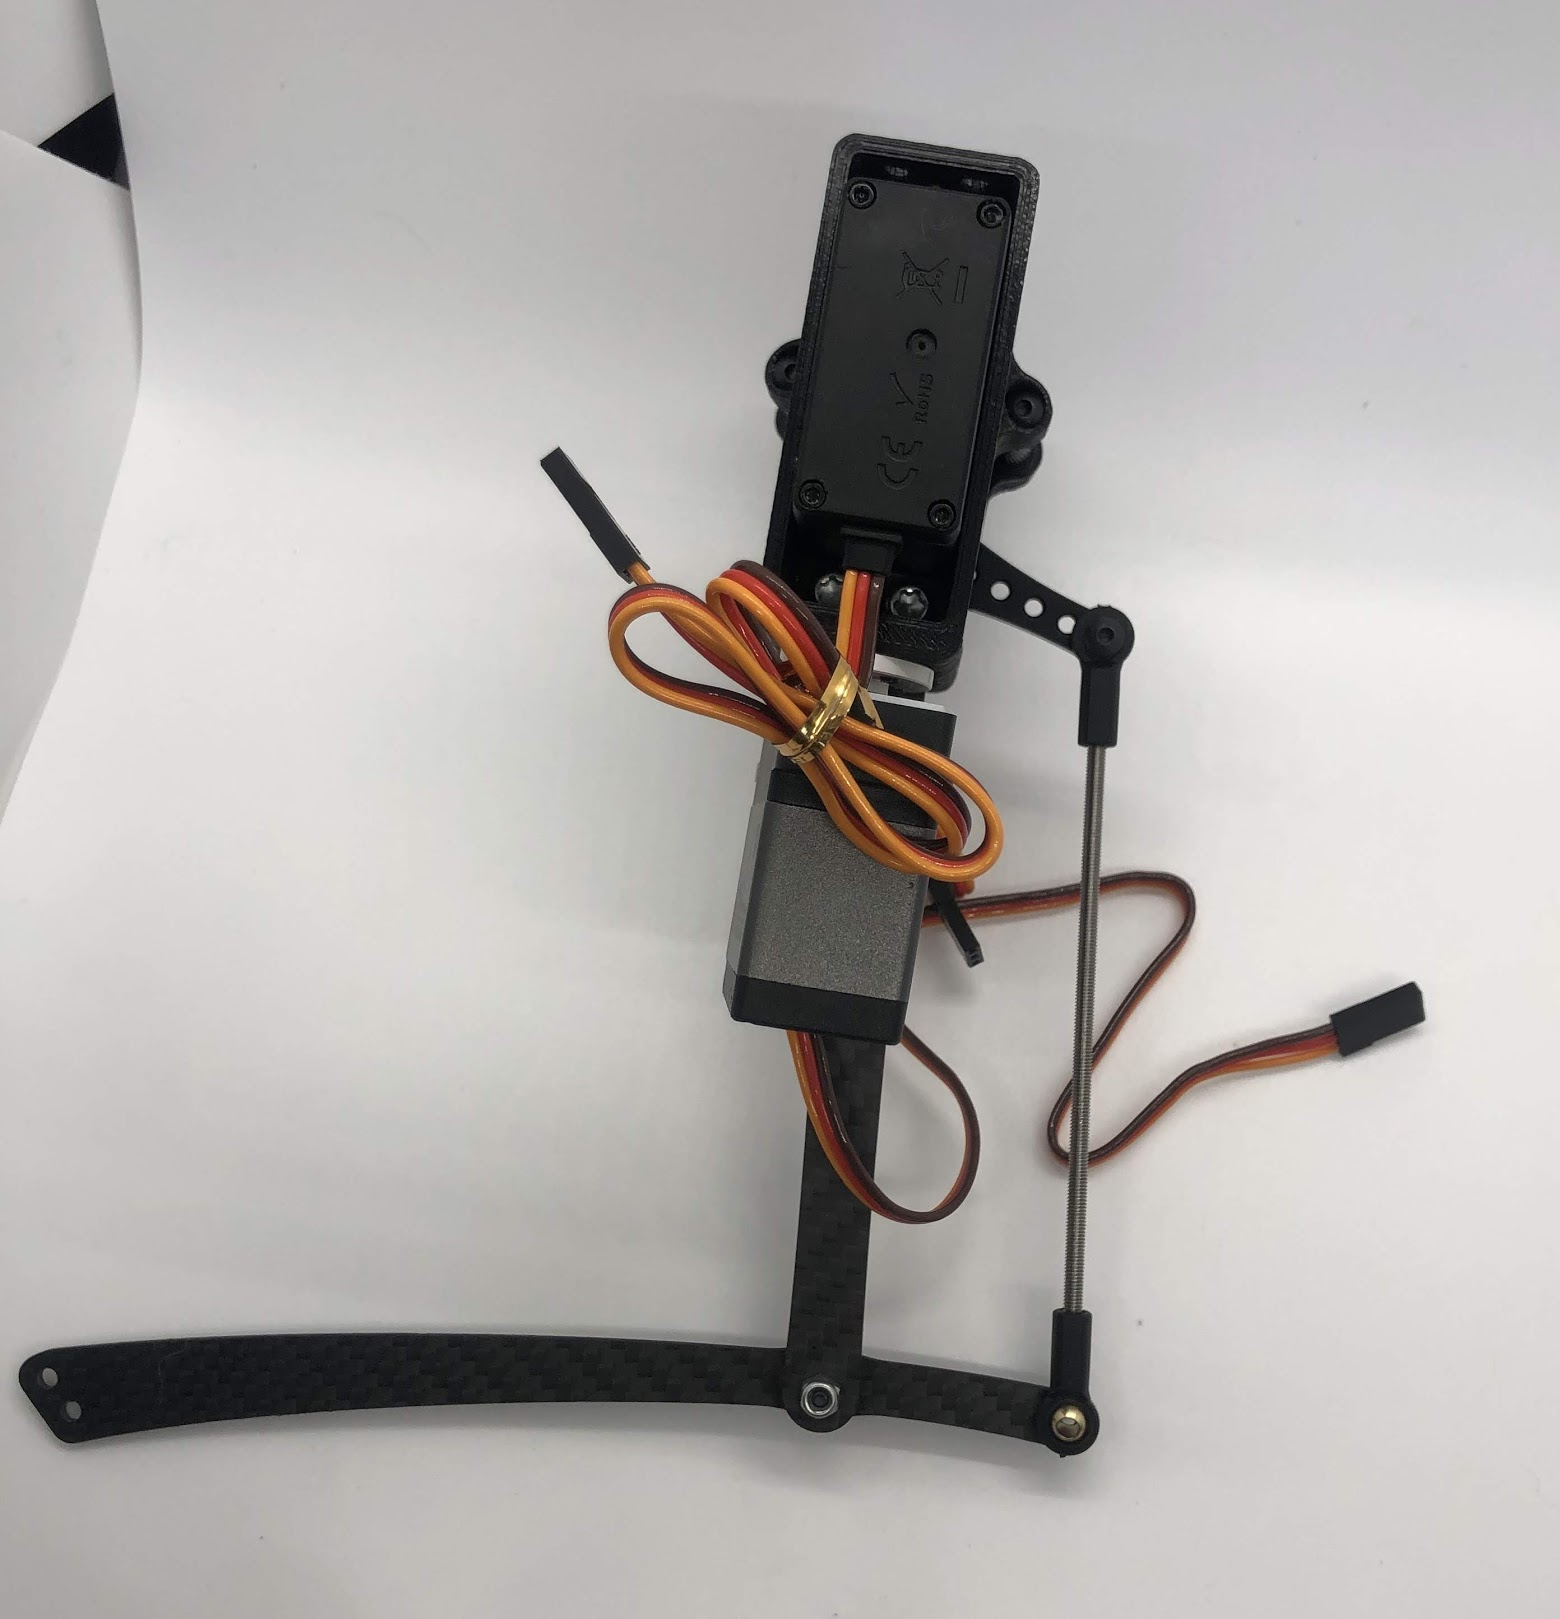
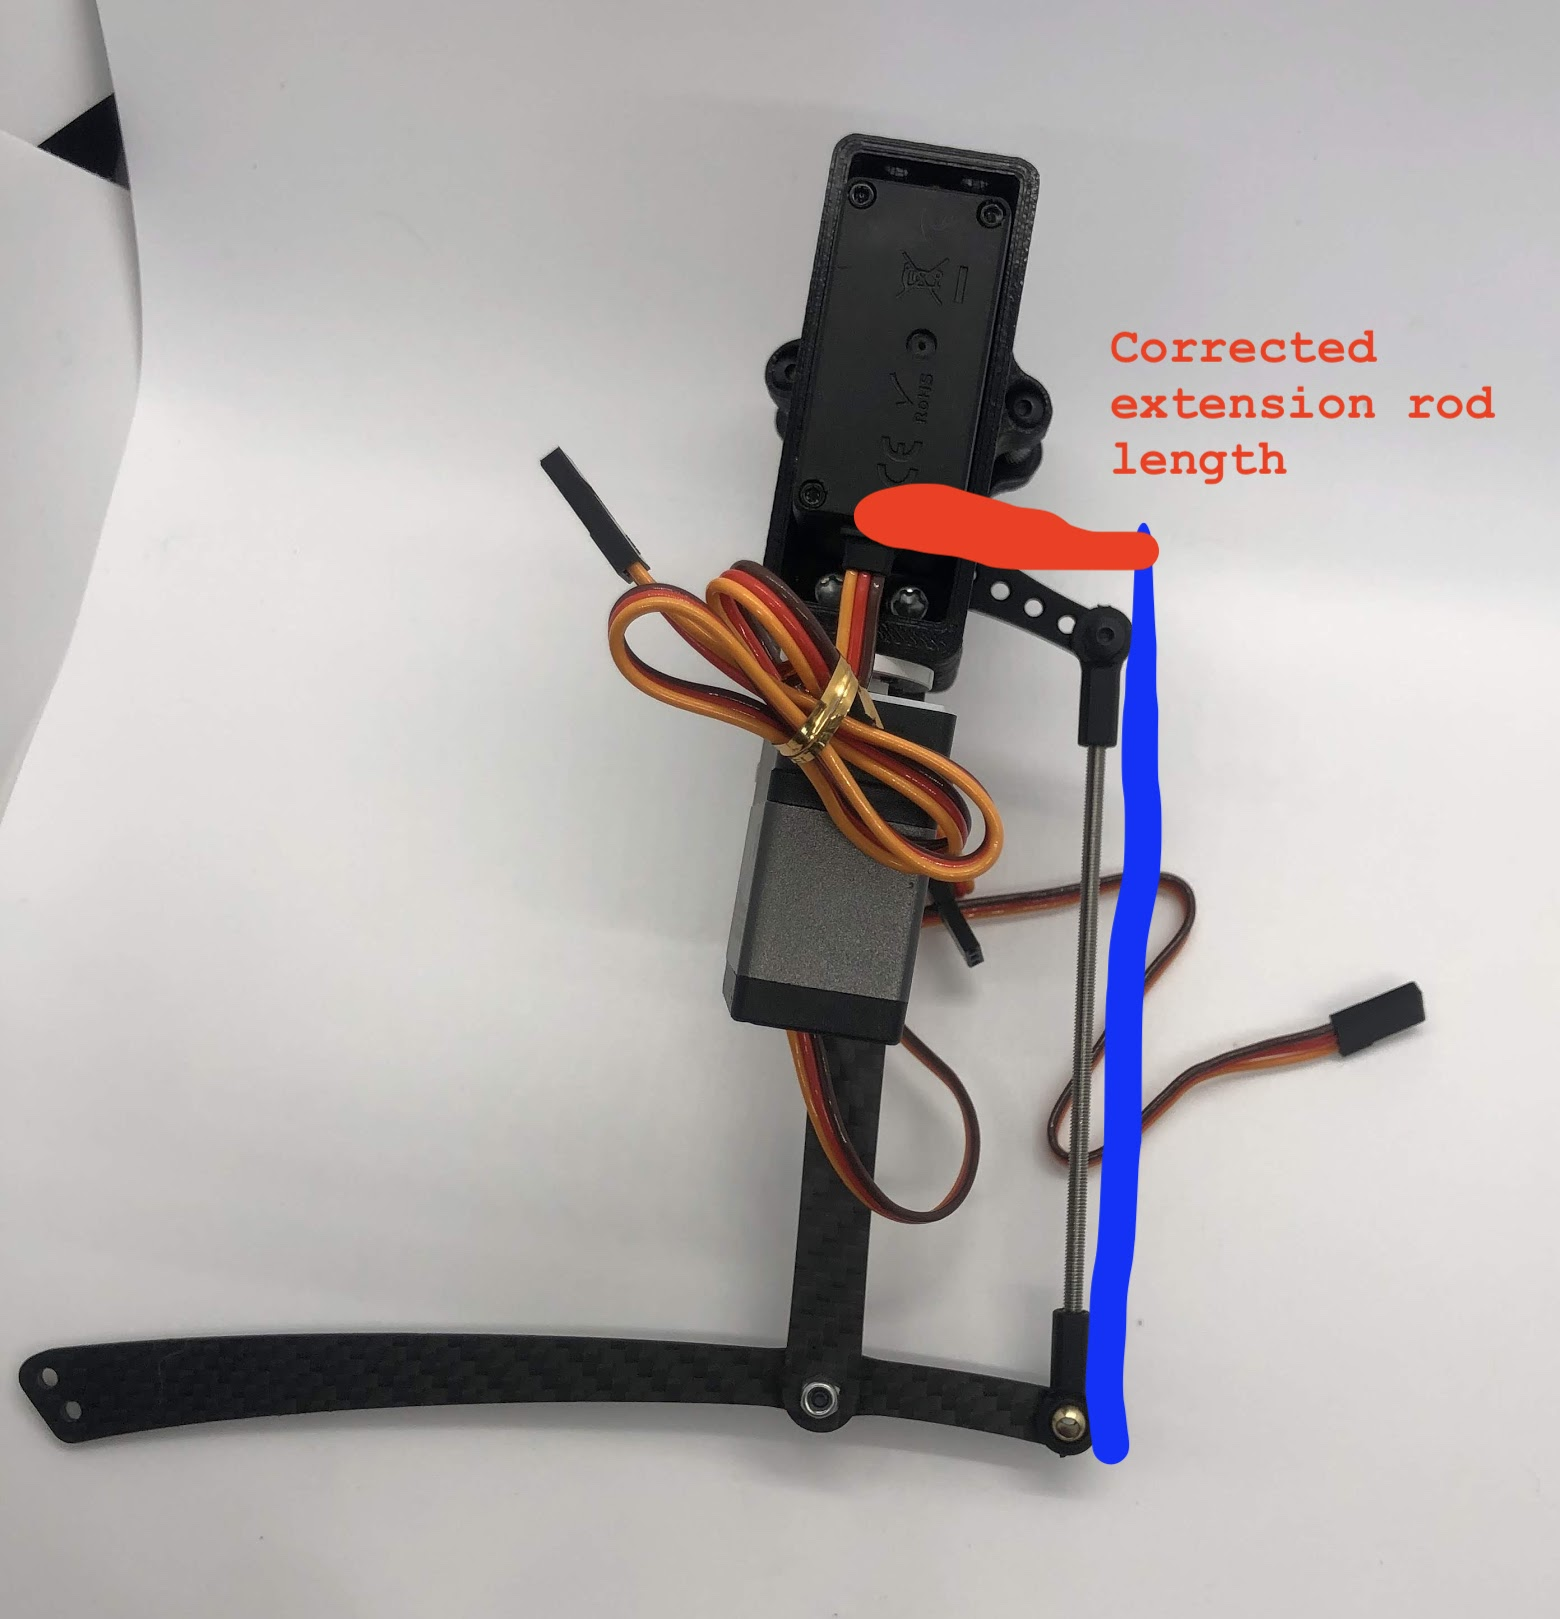
Add correction to extension rod assembly.

Changed region(s): [[0.5231, 0.1853, 0.9538, 0.9265]]

diff --git a/docs/guide/assembly.rst b/docs/guide/assembly.rst
@@ -294,7 +294,7 @@ Step 13. Assemble the upper leg extension rod
 
 Instructions: 
 
-1. Screw the rod ends on equally until the distance between the furthest holes on the rod match the holes on the upper carbon leg linkage (servo horn center to last carbon drill point). See picture for clarification. 
+1. Screw the rod ends on equally until the distance between the center of the holes in the rod ends is 123.5mm. The goal here is to make the center-to-center hole distance in the extension rod match that of the upper leg link.
 
 Preparing for the assembly
 
@@ -338,7 +338,7 @@ Preparing for the assembly
 .. image:: ../_static/hip15pre.jpg
     :align: center
 
-Completed step
+Completed step. CORRECTION: The extension rod in this picture is actually too short. See the red and blue annotation for the correct assembly. The servo horn, extension rod, upper leg link, and upper part of the lower leg link should form a perfect parallelogram.
 
 .. image:: ../_static/hip15com.jpg
     :align: center
